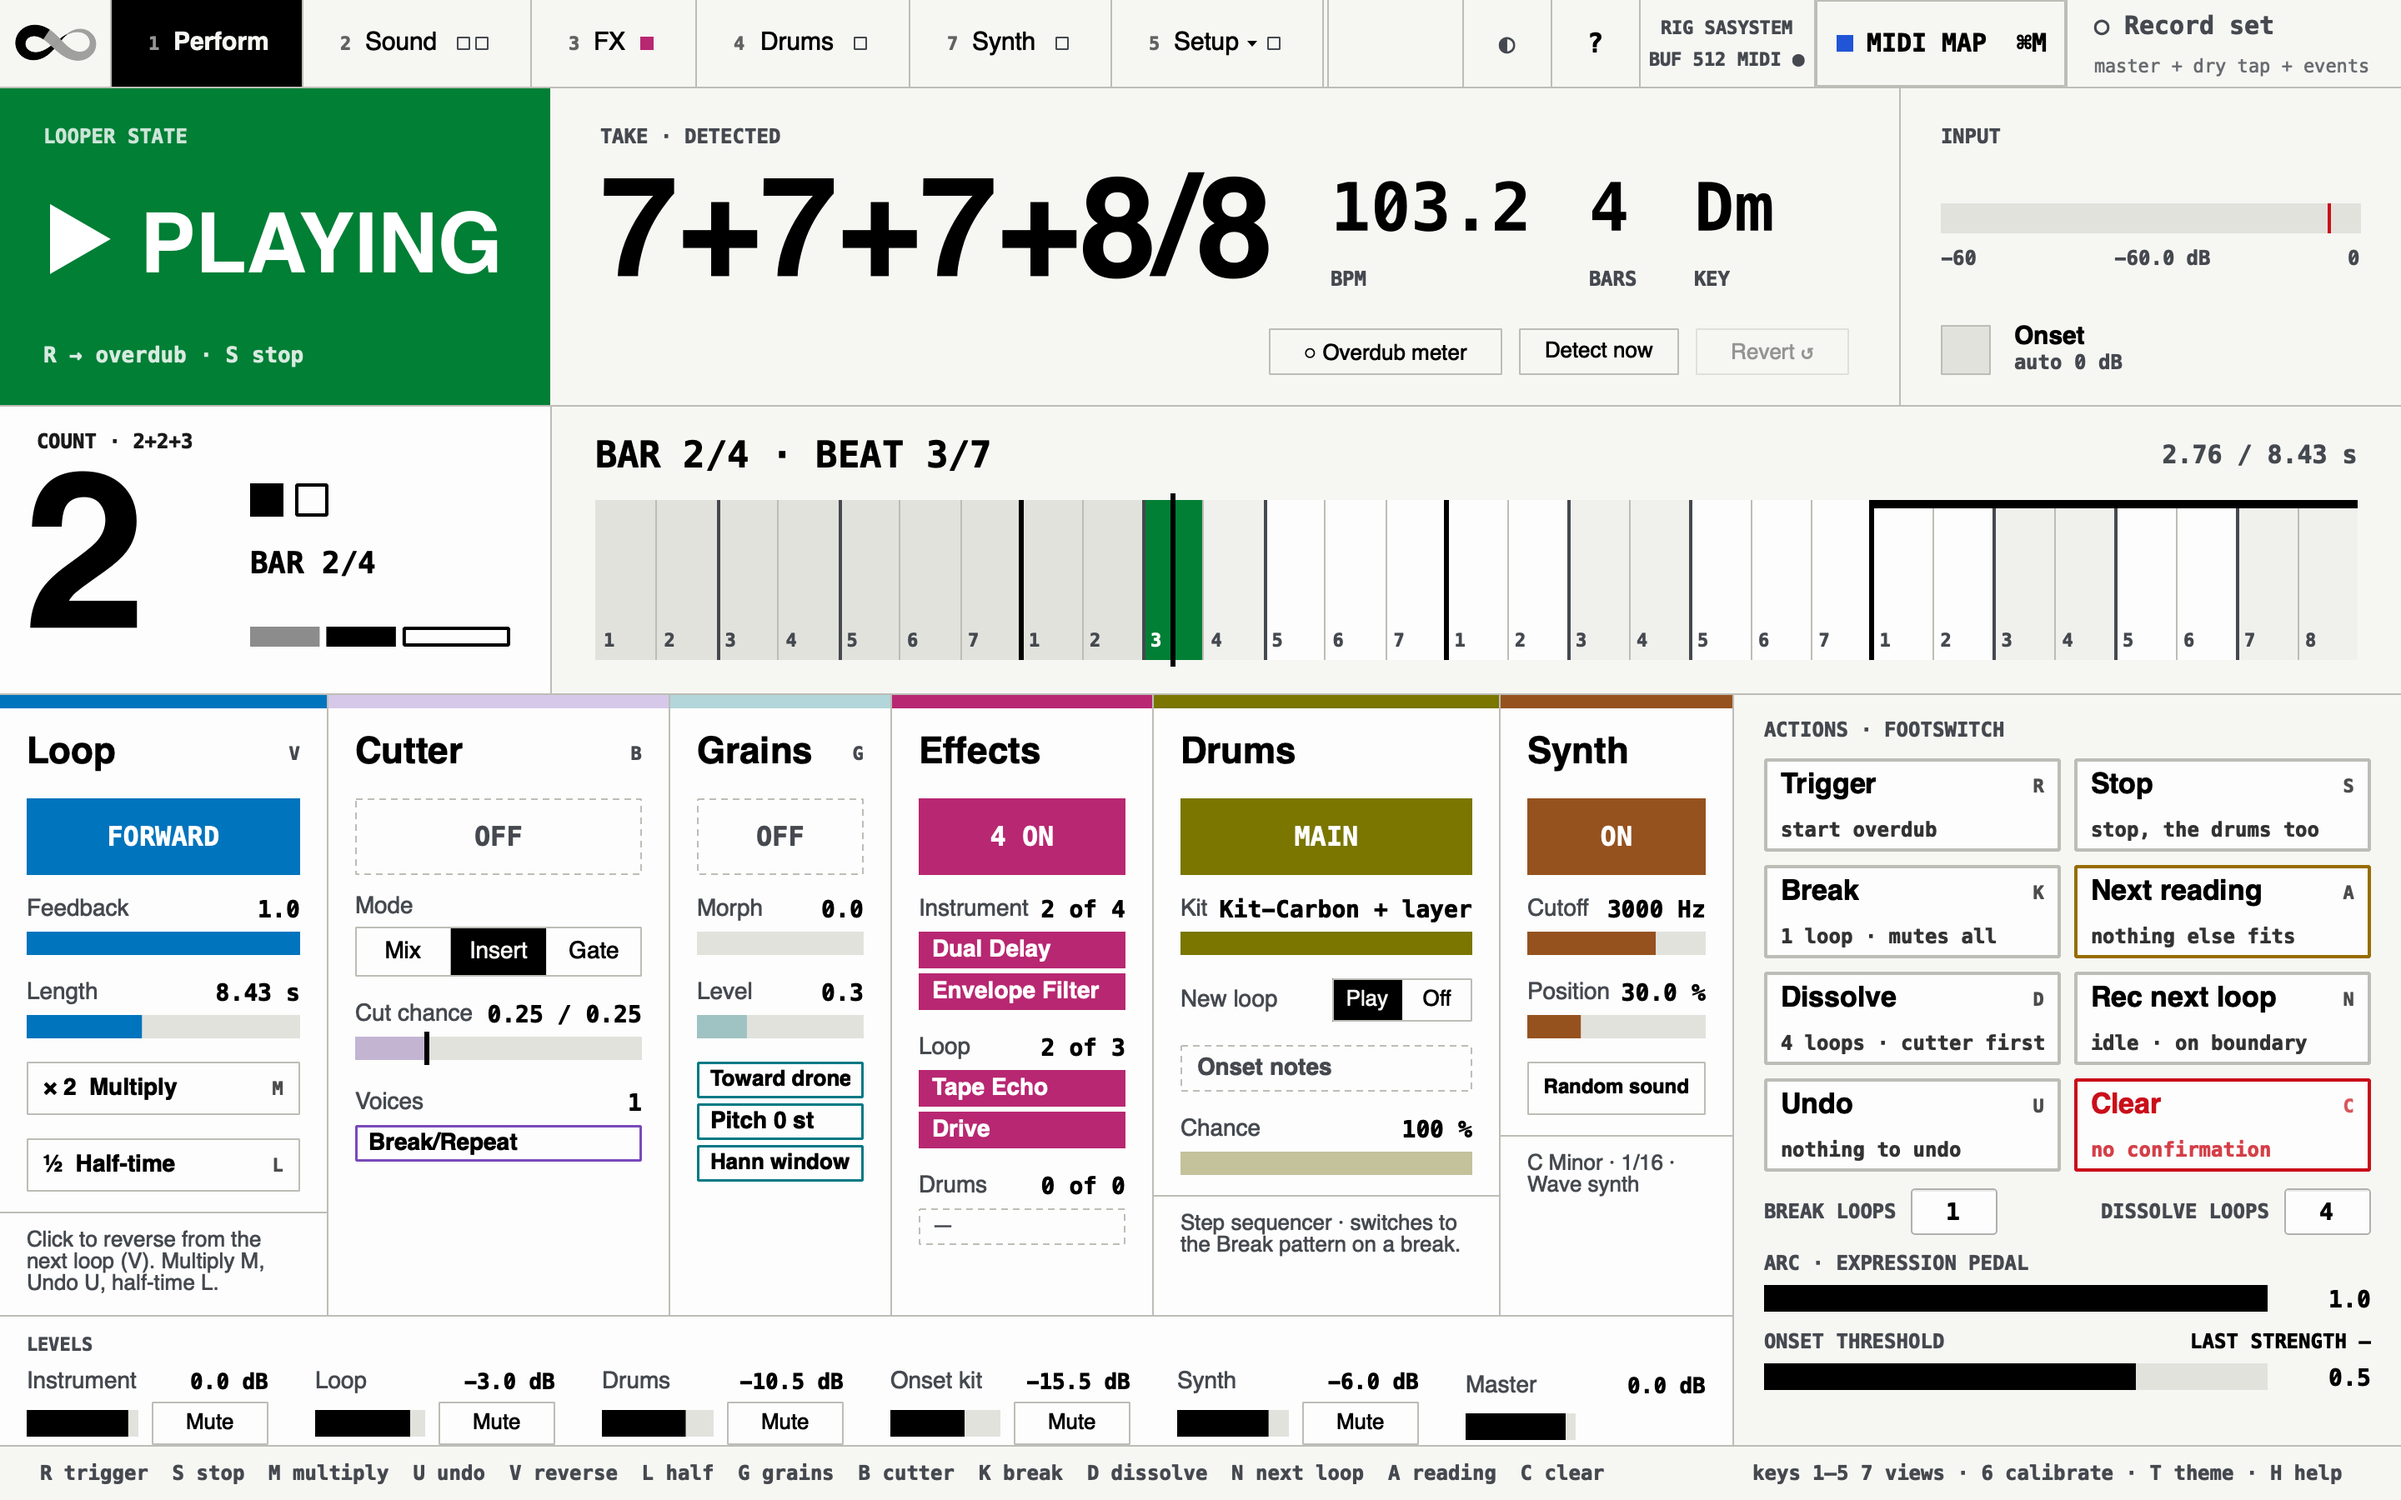
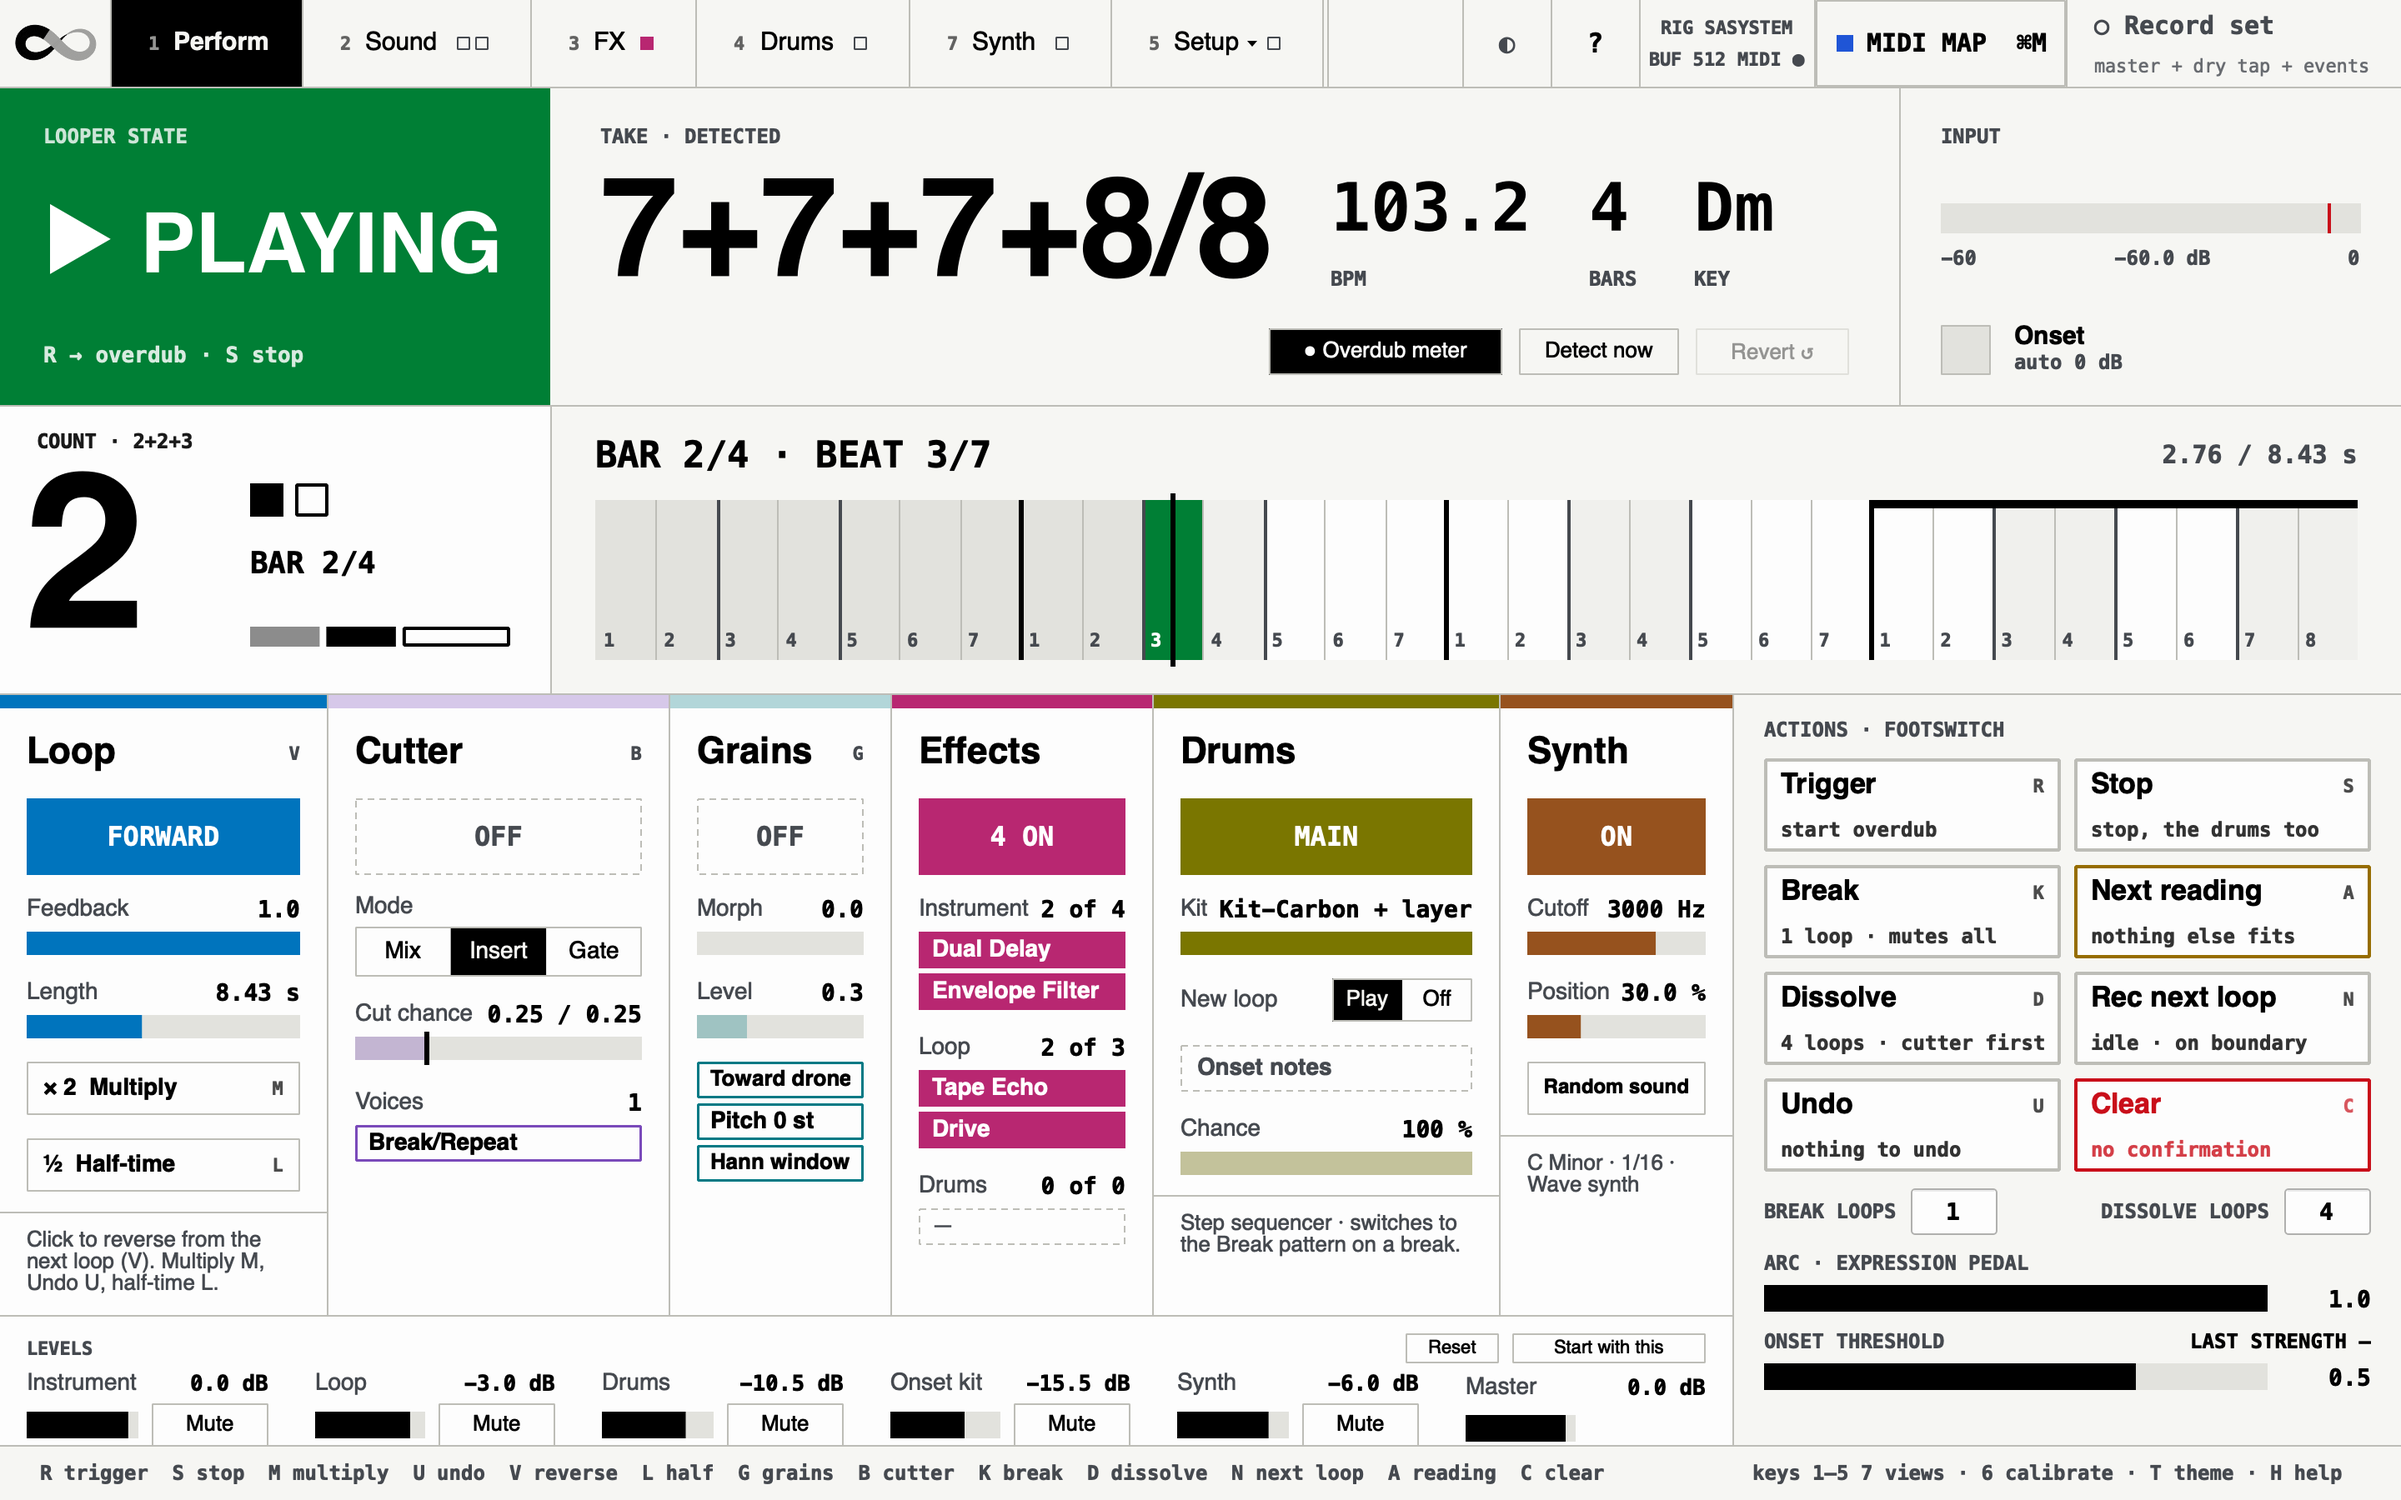
Levels: Start with this keeps them for the rig, and Reset
Nothing kept the mixer's levels: every start set the strips to the values
written in MegaSA. Now the LEVELS line on Perform has Reset and Start with
this. Start with this keeps the levels as they are for the rig megalooper
runs on, and the next start there begins with them; a dot on it says the
levels differ from what a start here begins with. Reset puts megalooper's
own back for now (MegaSA.defaultLevels, where init takes them from too).

A rig is its audio devices on the audio settings (TSMEGA, or the Mac's
microphone and speakers), whatever the buffer (setup-routing.scd's
levelsKey), else a rig of yours by its name, and a setup that took its
numbers from one of yours starts with its levels. Kept in dB in
sa/kept-levels.json, beside the other rigs'. Never the mutes: a strip muted
in passing cannot start silent. A file that can't be read, or from a newer
megalooper, is left alone and said.

The two tiles sit on the caption's line, no taller than it: a row of their
own pushed the strips' Mutes off a laptop's window, and a column beside
Master cut the actions' words off. test-megasa-levels (33 checks) and three
in check-gui-maptags; the manual, the README's table, routing.md, and the
Perform shots rendered again.

diff --git a/docs/manual.md b/docs/manual.md
@@ -524,7 +524,7 @@ Sound, FX, Drums, Synth and Setup) plus Calibrate, and a footer.
 
 | View | Key | What lives there |
 |---|---|---|
-| **Perform** | 1 | A column per layer — **Loop** (forward/reverse, feedback, length, ×2), **Cutter** (on/off, Mix/Insert/Gate, the arc-driven parameter with its tick, and its voices by name), **Grains** (on/off, morph, level, and their pitch and window), each filled in its colour while it plays and outlined while it is off, **Effects** (each chain's effects that are on, by name, in the effects colour), **Drums** (on/off, the kit, **New loop**, and the onset notes' switch and Chance) and **Synth** (on/off, Cutoff, Position, Random sound) — then the **actions** (Trigger, Stop, Break, Next reading, Dissolve, Rec next loop, Undo, Clear, each with its key and footswitch), Break loops and Dissolve loops, the **Arc** (the expression pedal's bar) and the **onset threshold** with the last onset's strength, and, under the layers, the **levels** of every strip |
+| **Perform** | 1 | A column per layer — **Loop** (forward/reverse, feedback, length, ×2), **Cutter** (on/off, Mix/Insert/Gate, the arc-driven parameter with its tick, and its voices by name), **Grains** (on/off, morph, level, and their pitch and window), each filled in its colour while it plays and outlined while it is off, **Effects** (each chain's effects that are on, by name, in the effects colour), **Drums** (on/off, the kit, **New loop**, and the onset notes' switch and Chance) and **Synth** (on/off, Cutoff, Position, Random sound) — then the **actions** (Trigger, Stop, Break, Next reading, Dissolve, Rec next loop, Undo, Clear, each with its key and footswitch), Break loops and Dissolve loops, the **Arc** (the expression pedal's bar) and the **onset threshold** with the last onset's strength, and, under the layers, the **levels** of every strip, with **Reset** and **Start with this** |
 | **Sound** | 2 | The **Cutter** (preset, voices, procedure, cut synth, ratio, parameters, level, pan, voice effects) beside the **Grains** (preset, Blend, Pitch, Grain, Read position, grain window) |
 | **FX** | 3 | The **effects** chains (click a block to edit it, its square to switch it) and their sounds |
 | **Drums** | 4 | The **drums** (step sequencer, timing, kits, mix) |
@@ -619,6 +619,17 @@ The controls, by view:
   sum under −0.45 dBFS. Their level in the mix is the **Loop** strip under
   Levels, which starts at −3 dB, so a hot take with the drums stays clear of
   the master's clip; the whole mix's last fader is **Master**.
+- **Levels** *(Perform, under the layers)* — a fader and a Mute per strip:
+  Instrument, Instrument 2, Loop, Drums, Onset kit, Synth and Master. They
+  start at megalooper's own levels: Instrument, Instrument 2 and Master 0 dB,
+  Loop −3, Synth −6, Drums −10.6, Onset kit −15.7. **Start with this**, at
+  the right of the LEVELS line, keeps them as they are for this rig, and the
+  next start on it begins with them. A rig is its audio devices (TSMEGA, say, or the Mac's
+  microphone and speakers), whatever the buffer, or a rig of yours by its
+  name: an interface and the laptop each keep their own. A dot on the button
+  says the levels differ from what a start here begins with. **Reset** puts
+  megalooper's own back for now; Start with this keeps those too. The mutes
+  are never kept: every strip starts unmuted.
 - **Morph** *(Perform's Grains column)* — between frozen drone (0) and pulsed scan
   locked to the detected pulse (1). Mirrors the Grains' Morph on Sound (CC 118 in the
   keys-and-knobs map); moving either updates both. Sound holds the rest of the layer.

diff --git a/README.md b/README.md
@@ -142,6 +142,7 @@ folder:
 | `sa/kept.json`, `sa/sounds/` | The sound a boot starts with, and the sounds you saved |
 | `sa/drum-presets/`, `sa/kept-drums/` | The drums' presets, and the drums a boot starts with |
 | `sa/synth-presets/`, `sa/kept-synth/`, `sa/wavetables/` | The synth's presets, the synth a boot starts with, and your wavetables |
+| `sa/kept-levels.json` | The levels each rig starts with (**Start with this** under Levels, on Perform) |
 | `sa/plugins/` | The list of plugins megalooper found |
 | `settings.json` | Your choices: the audio devices and inputs, the MIDI map each rig uses, which MIDI inputs megalooper listens to, the theme, the help lines, AI apps on or off |
 | `calibration.json` | What the Calibrate view found, per audio setup (devices and buffer) or rig of yours |

diff --git a/docs/routing.md b/docs/routing.md
@@ -10,7 +10,9 @@ what the menus do not offer.
 ## What the menus do
 
 - **Kept for the next start**, in `settings.json` in your megalooper folder.
-  The devices are kept by name.
+  The devices are kept by name. The levels under Levels on Perform are kept
+  per setup too, its devices whatever the buffer, when you press **Start with
+  this** there (`sa/kept-levels.json`).
 - **Two devices are fine.** The input can be one device and the output
   another, the microphone and the speakers of a laptop, say: SuperCollider
   joins them itself. They must run at the same sample rate, or the audio
